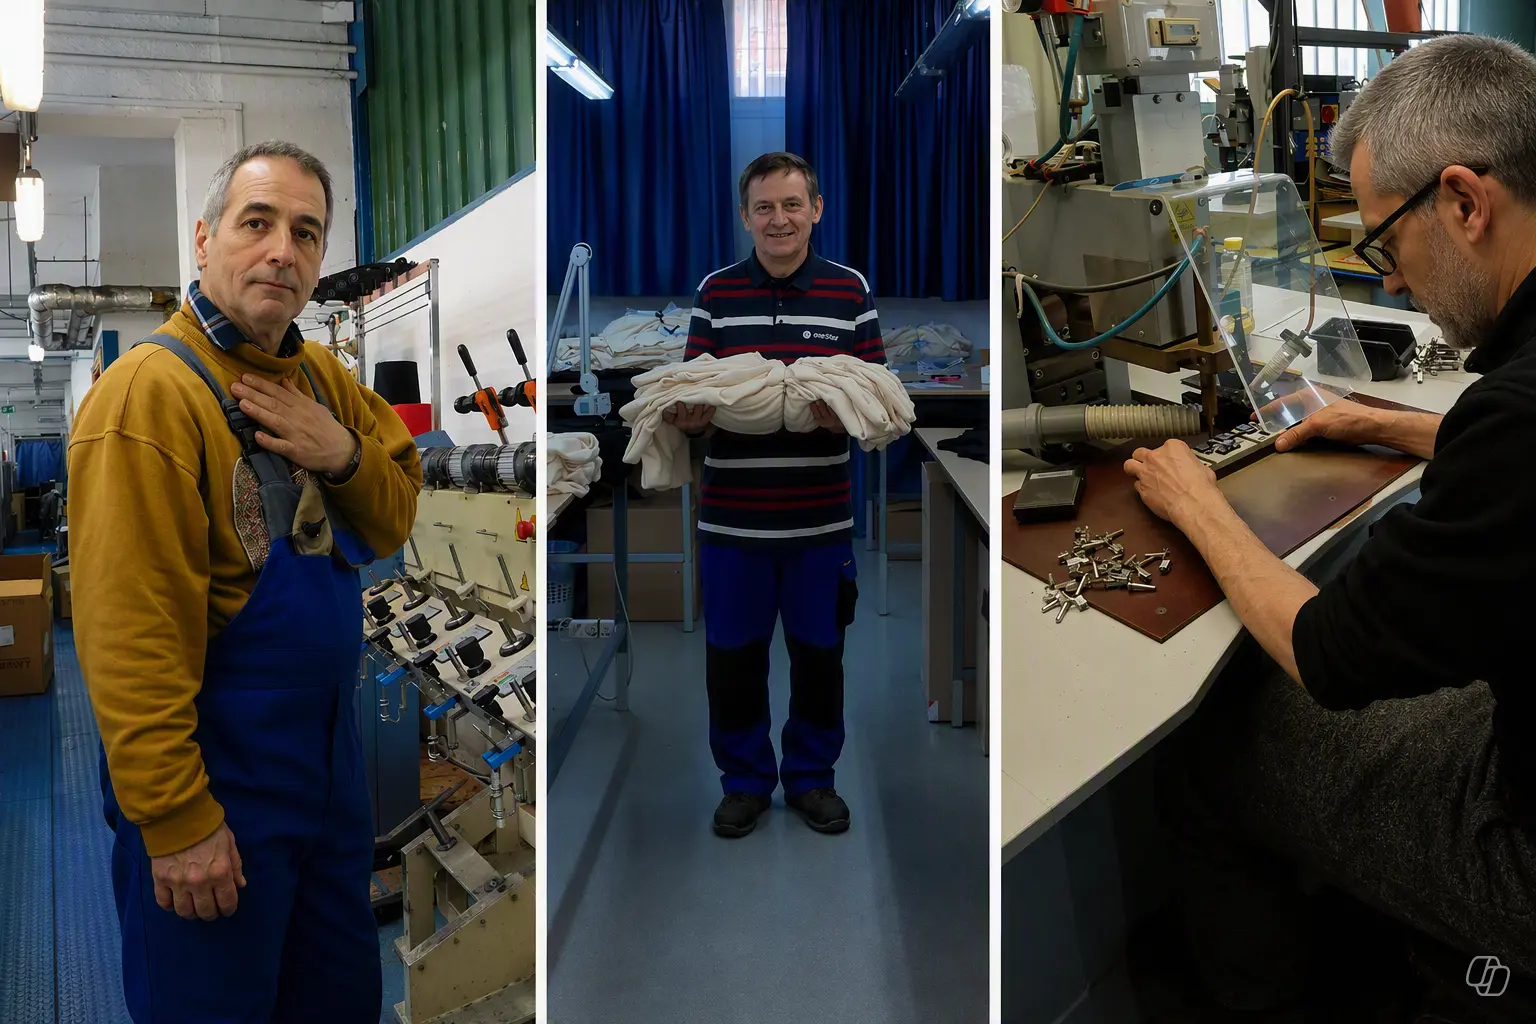
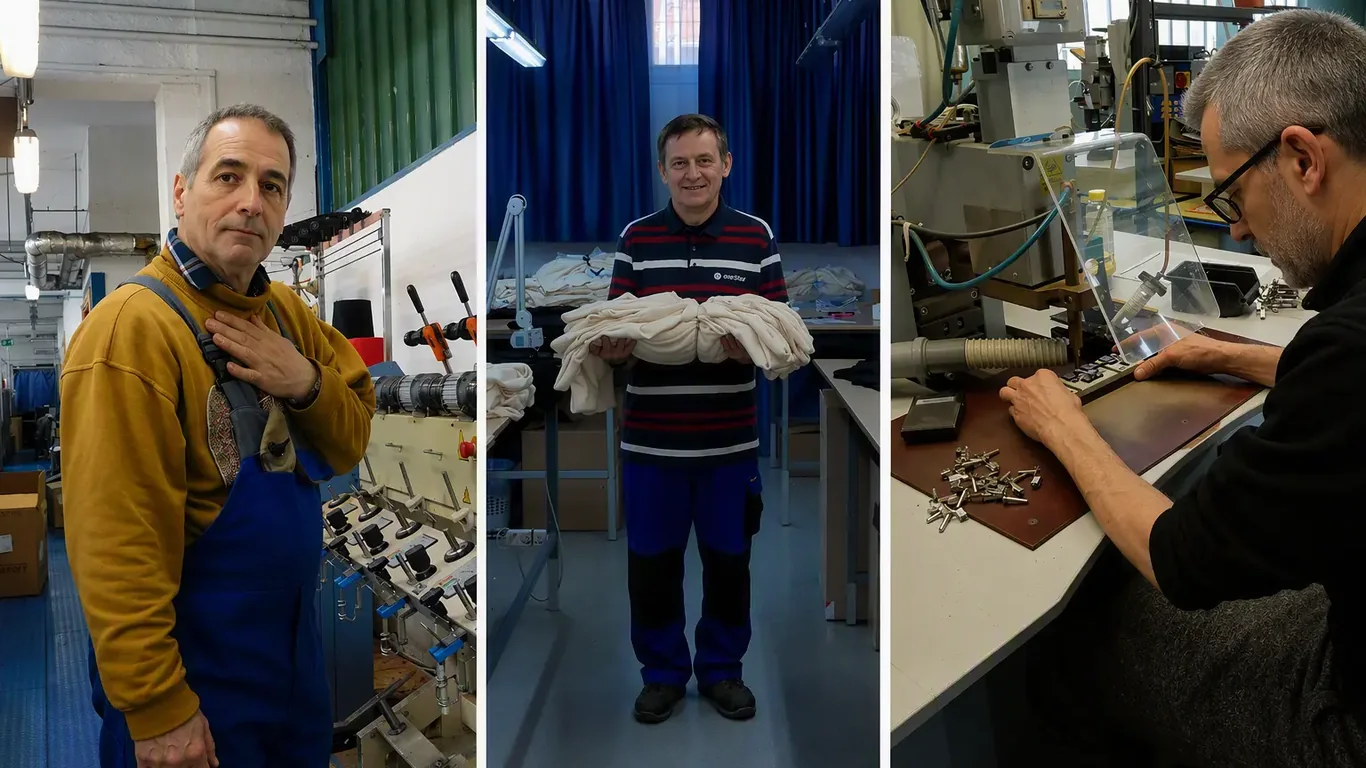
hero kepek csere/optimalizalas

diff --git a/css/style.css b/css/style.css
@@ -677,8 +677,15 @@ select:focus-visible,
     width: 100%;
     /* A hero képek natív aránya 16:9 (1366x768) – a 56.25vw pontosan
        ezt az arányt adja ki a szélességből, így a kép a legtöbb
-       nézeten kitölti a keretet, nem marad elmosott üres sáv. */
-    height: clamp(400px, 56.25vw, 720px);
+       nézeten kitölti a keretet, nem marad elmosott üres sáv.
+       A biztonsági korlát NEM egy fix vh-százalék (az normál, magas
+       ablakon is feleslegesen vágott volna), hanem a tényleges elérhető
+       magasság: 100vh mínusz a fejléc (~65px, lásd a lenti asztali
+       nézet .hero-carousel margin-top-ját) és egy kis ráhagyás – így
+       csak akkor szűkíti a dobozt a 16:9-nél kisebbre, ha az egyébként
+       tényleg a lapon kívülre tolná a szöveget. */
+    height: clamp(400px, min(56.25vw, calc(100vh - 85px)), 1100px);
+    height: clamp(400px, min(56.25vw, calc(100dvh - 85px)), 1100px);
     overflow: hidden;
     border-radius: var(--radius-sm);
     margin-top: var(--hero-carousel-margin-top);
@@ -711,9 +718,13 @@ select:focus-visible,
 }
 
 /*
-   Előtérkép: cover módban tölti ki a keretet, hogy széles monitoron
-   se maradjon üres sáv oldalt. A pozíció felülről indul, hogy a
-   vágás inkább alul (láb, padló) essen, ne a fejeknél.
+   Előtérkép: cover módban tölti ki a teljes szélességet és magasságot,
+   üres sáv (letterbox) sosem marad oldalt. Mind a 4 hero kép egységesen
+   16:9 arányú fájl, így ez a keret is szinte mindig pontosan 16:9 –
+   vágás csak a nagyon alacsony (rövid, de széles) ablakoknál fordul elő,
+   ahol a hero-carousel magassága a vh-sapka miatt szűkebb a 16:9-nél.
+   Ilyenkor a "top" pozíció miatt a vágás alulról (láb, padló) essen,
+   ne a fejeknél – kis kijelzőn/felbontáson ez számít igazán.
 */
 .hero-slide img {
     position: absolute;
@@ -723,7 +734,7 @@ select:focus-visible,
     height: 100%;
     max-width: none;
     object-fit: cover;
-    object-position: var(--hero-position, center top);
+    object-position: center top;
 }
 
 /*
@@ -748,7 +759,7 @@ select:focus-visible,
 .hero-text {
     position: absolute;
     left: 50%;
-    bottom: clamp(72px, 16vh, 150px);
+    bottom: clamp(36px, 8vh, 90px);
     width: min(90%, 920px);
     transform: translateX(-50%);
     text-align: center;
@@ -807,11 +818,12 @@ select:focus-visible,
 
 @media (max-width: 1024px) {
     .hero-carousel {
-        height: clamp(340px, 56.25vw, 620px);
+        height: clamp(340px, min(56.25vw, 83vh), 850px);
+        height: clamp(340px, min(56.25vw, 83dvh), 850px);
     }
 
     .hero-text {
-        bottom: clamp(58px, 13vh, 110px);
+        bottom: clamp(30px, 7vh, 70px);
     }
 }
 
@@ -821,7 +833,8 @@ select:focus-visible,
 
 @media (max-width: 768px) {
     .hero-carousel {
-        height: clamp(320px, 56.25vw, 460px);
+        height: clamp(320px, min(56.25vw, 72vh), 460px);
+        height: clamp(320px, min(56.25vw, 72dvh), 460px);
         margin-top: 60px;
     }
 
@@ -867,7 +880,8 @@ select:focus-visible,
 
 @media (max-width: 420px) {
     .hero-carousel {
-        height: clamp(230px, 56.25vw, 280px);
+        height: clamp(230px, min(56.25vw, 68vh), 280px);
+        height: clamp(230px, min(56.25vw, 68dvh), 280px);
     }
 
     .hero-text {
@@ -919,7 +933,11 @@ select:focus-visible,
 .ceo-preview,
 .ceo-full {
     max-width: var(--container-narrow);
-    margin: 80px auto;
+    /* Felül kisebb a rés, mert közvetlenül a hero carousel után jön,
+       ami már önmagában is elválasztja a tartalmat a navbartól – a
+       80px-es alsó rés viszont marad, hogy illeszkedjen a többi
+       szekció megszokott ritmusához. */
+    margin: 48px auto 80px;
     padding: 50px 40px;
     background: var(--color-surface);
     border-radius: var(--radius-lg);
@@ -5770,6 +5788,14 @@ select:focus-visible,
     backdrop-filter: blur(10px);
     -webkit-backdrop-filter: blur(10px);
     border-bottom: 1px solid rgba(0, 63, 125, 0.08);
+  }
+
+  /* Ebben a nézetben a fejléc tényleges magassága (logó + padding + szegély)
+     ~57px, nem a --navbar-height (60px) alapú érték – a hero ezért itt
+     kap saját, a valós magassághoz igazított margót, hogy ne maradjon
+     felesleges rés a fejléc és a carousel között. */
+  .hero-carousel {
+    margin-top: 65px;
   }
 
   /* A navbar már csak a logót tartja; a saját fix pozícióját és

diff --git a/index.html b/index.html
@@ -191,34 +191,34 @@
         <!-- HERO CAROUSEL -->
         <section class="hero-carousel" aria-label="Kiemelt tartalmak">
                 <div class="hero-slide active">
-                    <img src="./img/hero/hero-1.webp" alt="SZEFO üzem" width="1536" height="1024" loading="lazy">
+                    <img src="./img/hero/hero-1.webp" alt="SZEFO üzem" width="1366" height="768" loading="eager">
                     <div class="hero-text">
                         <h1>Értéket teremtünk – együtt</h1>
-                        <p>Foglalkoztatás, gyártás, szakmai tudás és társadalmi felelősségvállalás.</p>
+                        <p>Társadalmi felelősségvállalás, esély megváltozott munkaképességű emberek számára</p>
                     </div>
                 </div>
 
                 <div class="hero-slide">
-                    <img src="./img/hero/hero-2.webp" alt="Textilipari munkafolyamat" width="1366" height="768" loading="lazy">
+                    <img src="./img/hero/hero-2.webp" alt="Villamosipari alkatrész-összeszerelés" width="1366" height="768" loading="lazy">
                     <div class="hero-text">
                         <h2>Rehabilitációs foglalkoztatás</h2>
-                        <p>Méltó munkalehetőség megváltozott munkaképességű munkatársaink számára.</p>
+                        <p>Villamosipari gyártás, megbízható teljesítmény, szakmai tapasztalat </p>
                     </div>
                 </div>
 
                 <div class="hero-slide">
-                    <img src="./img/hero/hero-3.webp" alt="Gyártási környezet" width="1366" height="768" loading="lazy">
+                    <img src="./img/hero/hero-3.webp" alt="Textilipari gépsor, varrás és hímzés" width="1366" height="768" loading="lazy">
                     <div class="hero-text">
-                        <h2>Komplex gyártási megoldások</h2>
-                        <p>Textilipari, villamosipari és bérmunka szolgáltatások egy helyen.</p>
+                        <h2>70+ év textilipari tapasztalat </h2>
+                        <p>Korszerű technológia, komplex gyártás – fejlesztéstől késztermékig</p>
                     </div>
                 </div>
 
                 <div class="hero-slide">
                     <img src="./img/hero/hero-4.webp" alt="Gyártási környezet" width="1366" height="768" loading="lazy">
                     <div class="hero-text">
-                        <h2>Komplex gyártási megoldások</h2>
-                        <p>Textilipari, villamosipari és bérmunka szolgáltatások egy helyen.</p>
+                        <h2>Együttműködés hazai és nemzetközi divatmárkákkal </h2>
+                        <p>Több évtizedes szakértelem prémium kötöttáru-gyártásban</p>
                     </div>
                 </div>
 
